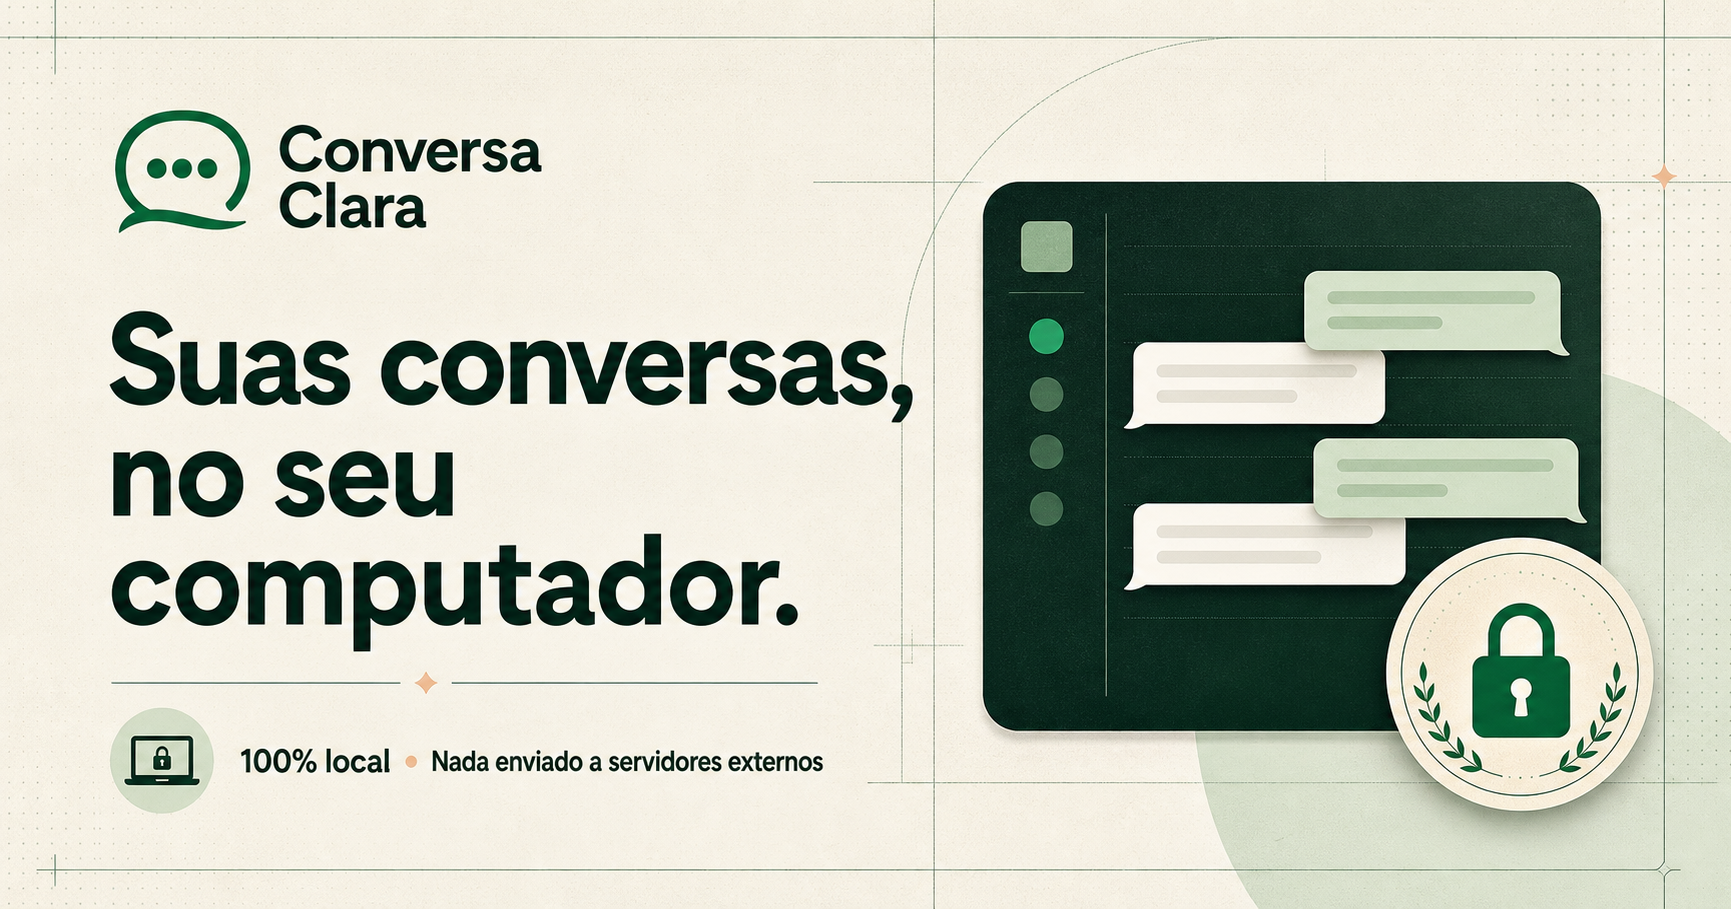
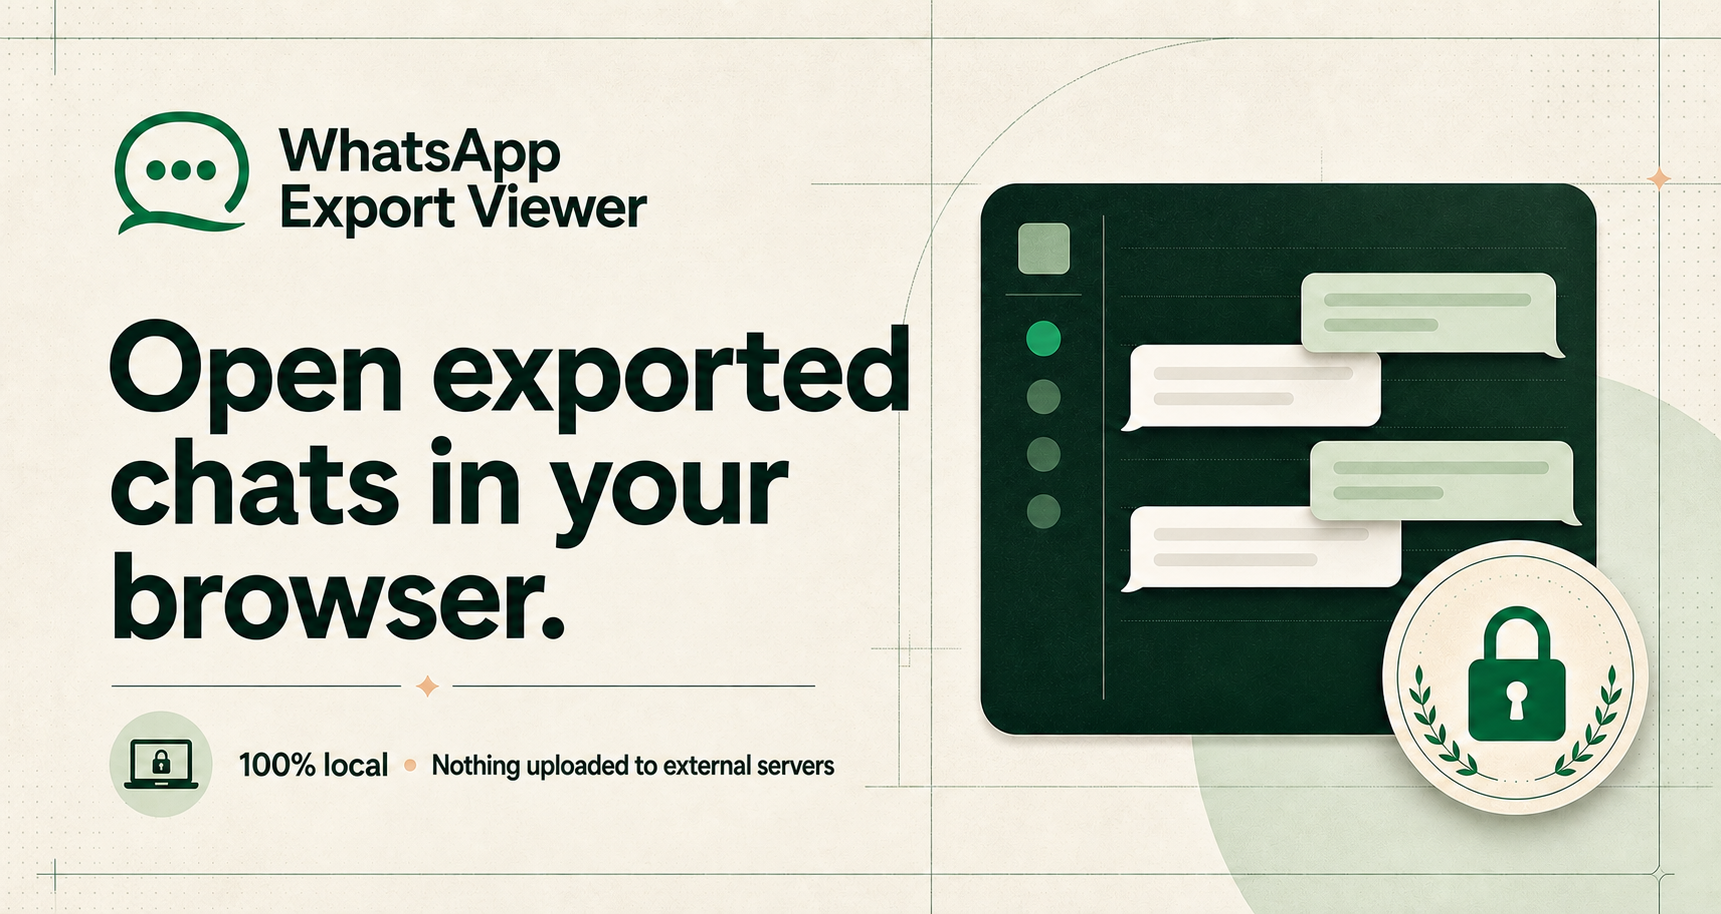
feat: renomeia produto para WhatsApp Export Viewer

diff --git a/app/ChatViewer.tsx b/app/ChatViewer.tsx
@@ -332,9 +332,9 @@ export default function ChatViewer() {
     return (
       <main className={`landing${darkMode ? " dark" : ""}`}>
         <header className="landingNav">
-          <a className="brand" href="#inicio" aria-label="Conversa Clara — início">
+          <a className="brand" href="#inicio" aria-label="WhatsApp Export Viewer — início">
             <MessageCircleMore aria-hidden="true" className="brandIcon" />
-            <span>Conversa Clara</span>
+            <span>WhatsApp Export Viewer</span>
           </a>
           <nav aria-label="Navegação principal">
             <a href="#privacidade">Privacidade</a>
@@ -350,9 +350,9 @@ export default function ChatViewer() {
         <section className="hero" id="inicio">
           <div className="heroCopy">
             <span className="eyebrow"><span className="statusDot" /> Gratuito e sem cadastro</span>
-            <h1>Suas conversas,<br /><em>no seu computador.</em></h1>
+            <h1>Abra conversas exportadas<br /><em>do WhatsApp no navegador.</em></h1>
             <p className="heroLead">
-              Importe o ZIP exportado pelo WhatsApp para buscar mensagens, rever mídias e entender toda a conversa com calma.
+              Transforme o ZIP exportado pelo WhatsApp em uma conversa fácil de ler, pesquisar e navegar — sem instalar nada.
             </p>
             <div className="privacyPromise">
               <ShieldCheck aria-hidden="true" className="privacyShieldIcon" />
@@ -470,7 +470,7 @@ export default function ChatViewer() {
         </section>
 
         <footer className="landingFooter">
-          <span className="brand"><MessageCircleMore aria-hidden="true" className="brandIcon" />Conversa Clara</span>
+          <span className="brand"><MessageCircleMore aria-hidden="true" className="brandIcon" />WhatsApp Export Viewer</span>
           <p>Privacidade não é um recurso extra. É a base do produto.</p>
         </footer>
       </main>
@@ -482,7 +482,7 @@ export default function ChatViewer() {
       <header className="appTopbar">
         <button className="brand brandButton" onClick={() => setMobileView("chats")}>
           <MessageCircleMore aria-hidden="true" className="brandIcon" />
-          <span>Conversa Clara</span>
+          <span>WhatsApp Export Viewer</span>
         </button>
         <PrivacySeal compact />
         <AdSlot compact />

diff --git a/app/layout.tsx b/app/layout.tsx
@@ -7,22 +7,29 @@ export async function generateMetadata(): Promise<Metadata> {
   const host = requestHeaders.get("x-forwarded-host") ?? requestHeaders.get("host") ?? "localhost:3000";
   const protocol = requestHeaders.get("x-forwarded-proto") ?? (host.startsWith("localhost") ? "http" : "https");
   const metadataBase = new URL(`${protocol}://${host}`);
-  const title = "Conversa Clara — leia seus chats com privacidade";
-  const description = "Abra conversas exportadas do WhatsApp no próprio navegador. Nenhum arquivo é enviado ou armazenado em servidores externos.";
+  const title = "WhatsApp Export Chat Viewer — abra conversas ZIP no navegador";
+  const description = "Abra e leia conversas exportadas do WhatsApp em formato ZIP diretamente no navegador. Seus arquivos ficam no dispositivo e não são enviados a servidores externos.";
 
   return {
     metadataBase,
     title,
     description,
-    applicationName: "Conversa Clara",
-    keywords: ["conversa", "WhatsApp", "exportação", "privacidade", "visualizador"],
+    applicationName: "WhatsApp Export Viewer",
+    keywords: [
+      "WhatsApp export chat viewer",
+      "WhatsApp export viewer",
+      "open WhatsApp export",
+      "WhatsApp chat viewer",
+      "abrir conversa exportada do WhatsApp",
+      "visualizar ZIP do WhatsApp",
+    ],
     robots: { index: true, follow: true },
     openGraph: {
       title,
       description,
       type: "website",
       locale: "pt_BR",
-      images: [{ url: new URL("/og.png", metadataBase).toString(), width: 1728, height: 915, alt: "Conversa Clara — suas conversas, no seu computador" }],
+      images: [{ url: new URL("/og.png", metadataBase).toString(), width: 1728, height: 915, alt: "WhatsApp Export Viewer — open exported chats in your browser" }],
     },
     twitter: {
       card: "summary_large_image",

diff --git a/README.md b/README.md
@@ -1,6 +1,10 @@
-# Conversa Clara
+# WhatsApp Export Viewer
 
-Visualizador privado de conversas exportadas do WhatsApp.
+Abra e leia conversas exportadas do WhatsApp diretamente no navegador.
+O projeto transforma o arquivo ZIP em uma interface simples, pesquisável e
+familiar, sem exigir instalação ou cadastro.
+
+> WhatsApp Export Chat Viewer para arquivos ZIP, com processamento 100% local.
 
 O arquivo ZIP é aberto e processado localmente pelo navegador. As conversas e
 mídias não são enviadas para um servidor externo.
@@ -33,4 +37,5 @@ O build usa Vinext e
 permanece compatível com um ambiente Cloudflare Workers, caso uma hospedagem
 seja configurada futuramente.
 
-Este é um produto independente e não afiliado ao WhatsApp.
+WhatsApp é uma marca comercial da WhatsApp LLC. Este é um produto independente,
+sem afiliação, patrocínio ou endosso da WhatsApp LLC.
